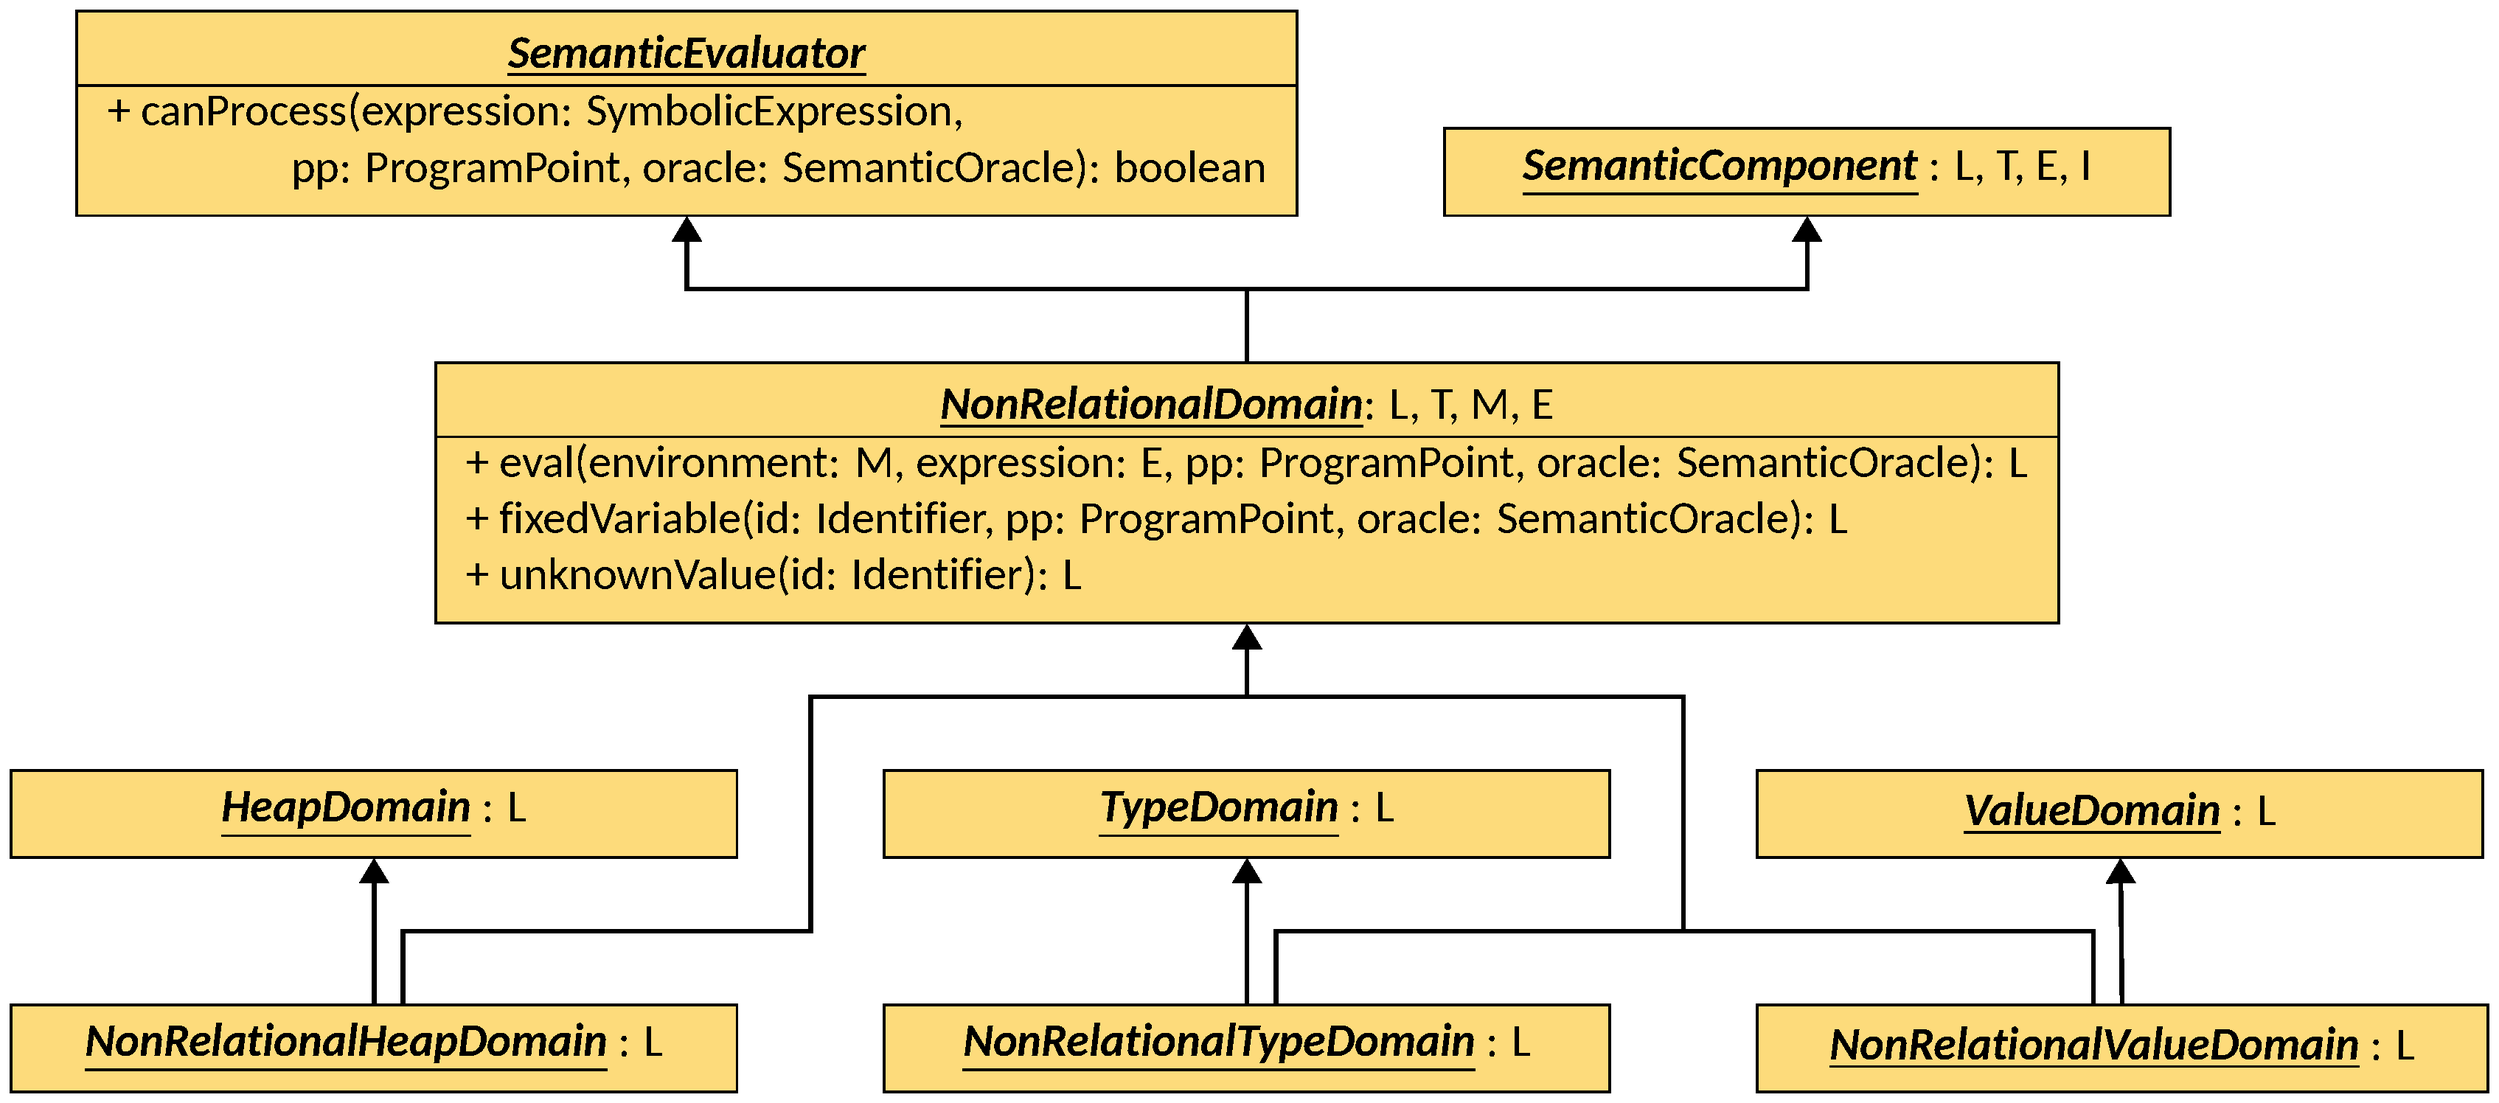
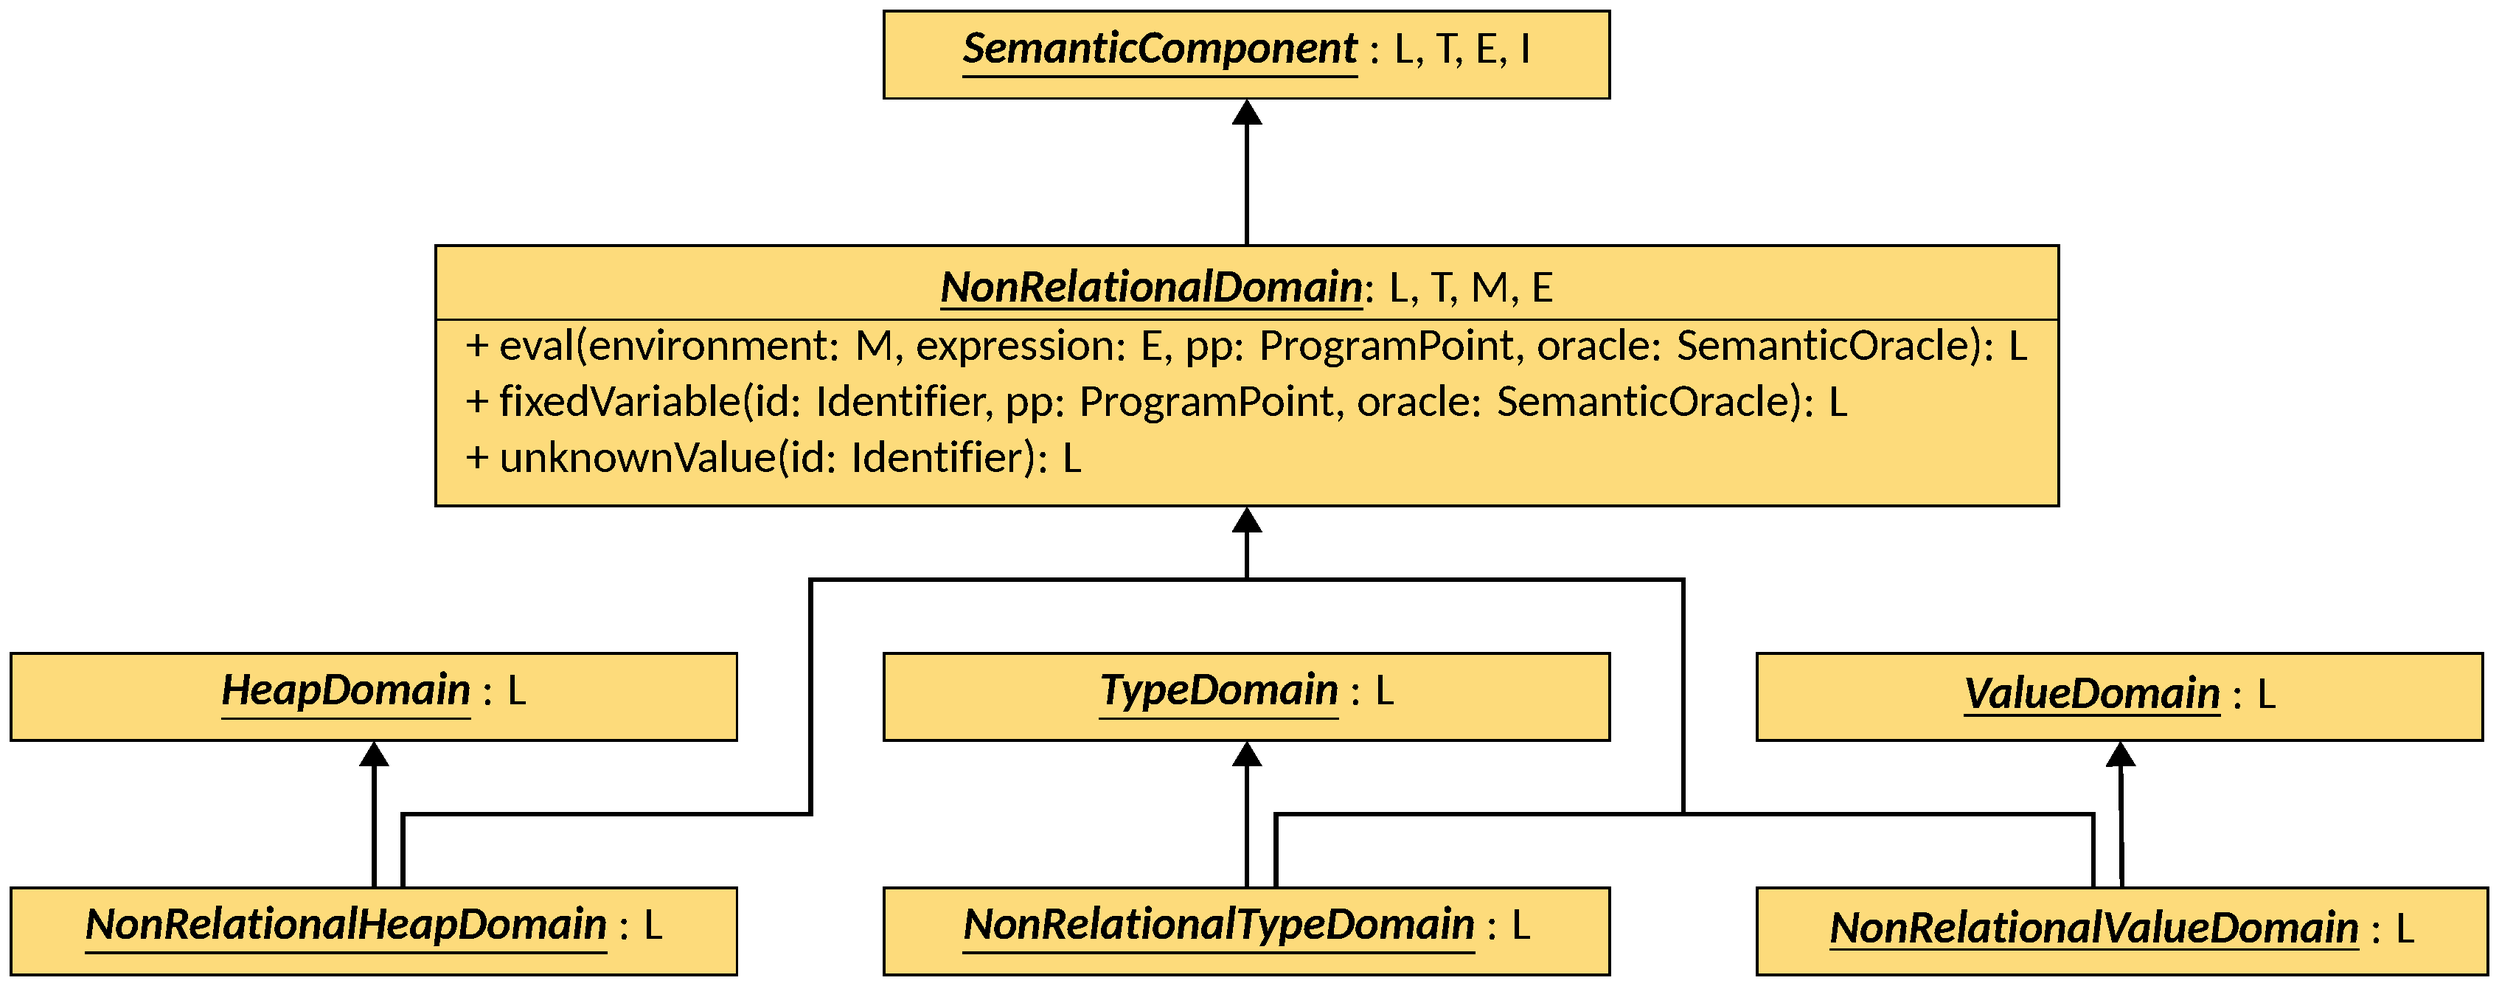
update for new release

diff --git a/schemes/sad-domain.tex b/schemes/sad-domain.tex
@@ -19,18 +19,20 @@
 			$\qquad\qquad$pp: ProgramPoint, oracle: SemanticOracle): Type      \\
 		\end{tabular}};
 
-	\node[interfacenode, inlinenode, left=of td.north west, anchor=north east] (vd) {\begin{tabular}{l}
-			\multicolumn{1}{c}{\interfacename{ValueDmain} : L} \\
-		\end{tabular}};
-
-	\node[interfacenode] (dwr) [above=1.5cm of $(td)!0.5!(vd)$] {\begin{tabular}{l}
-			\multicolumn{1}{c}{\interfacename{DomainWithReplacement} : L, E} \\
+	\node[interfacenode, left=of td.north west, anchor=north east] (vd) {\begin{tabular}{l}
+			\multicolumn{1}{c}{\interfacename{ValueDomain} : L}                            \\
 			\hline
-			+ !applyReplacement(state: L, r: HeapReplacement,                \\
-			$\qquad\qquad$pp: ProgramPoint, oracle: SemanticOracle): L       \\
+			+ !constraints(ValueDomain<?> requesting, L state, ValueExpression e,          \\
+			$\qquad\qquad$ProgramPoint pp, SemanticOracle oracle): Set<BinaryExpression>   \\
+			* makeConstraint(Type constantType, Object constant, BinaryOperator operator,  \\
+			$\qquad\qquad$SymbolicExpression expr, ProgramPoint pp): Set<BinaryExpression> \\
+			* makeEqConstraint(Type constantType, Object constant,                         \\
+			$\qquad\qquad$SymbolicExpression expr, ProgramPoint pp): Set<BinaryExpression> \\
+			* makeRangeConstraints(Type constantType, Object low, Object high,             \\
+			$\qquad\qquad$SymbolicExpression expr, ProgramPoint pp): Set<BinaryExpression> \\
 		\end{tabular}};
 
-	\node[interfacenode, left=2cm of dwr.north west, anchor=north east] (hd) {\begin{tabular}{l}
+	\node[interfacenode, left=of vd.north west, anchor=north east] (hd) {\begin{tabular}{l}
 			\multicolumn{1}{c}{\interfacename{HeapDomain} : L}                             \\
 			\hline
 			+ rewrite(state: L, expression: SymbolicExpression,                            \\
@@ -47,7 +49,7 @@
 			$\qquad\qquad$pp: ProgramPoint, oracle: SemanticOracle): Satisfiability        \\
 		\end{tabular}};
 
-	\node[interfacenode] (comp) [above=of $(hd.north)!0.5!(dwr.north)$] {\begin{tabular}{l}
+	\node[interfacenode] (comp) [above=of vd] {\begin{tabular}{l}
 			\multicolumn{1}{c}{\interfacename{SemanticComponent} : L, T, E, I}                                  \\
 			\hline
 			+ assign(state: L, id: I, expression: E, pp: ProgramPoint, oracle: SemanticOracle): T               \\
@@ -58,10 +60,9 @@
 			+ onCallReturn(entryState: L, callres: L, call: ProgramPoint): L                                    \\
 		\end{tabular}};
 
-	\draw[->, thick] (vd) |- ($(dwr.south)+(0,-0.5)$) to (dwr);
-	\draw[->, thick] (td) |- ($(dwr.south)+(0,-0.5)$) to (dwr);
+	\draw[->, thick] (vd) to (comp);
+	\draw[->, thick] (td) |- ($(comp.south)+(0,-0.5)$) to (comp);
 	\draw[->, thick] (hd) |- ($(comp.south)+(0,-0.5)$) to (comp);
-	\draw[->, thick] (dwr) |- ($(comp.south)+(0,-0.5)$) to (comp);
 \end{tikzpicture}
 
 \end{document}

diff --git a/schemes/dataflow.tex b/schemes/dataflow.tex
@@ -11,8 +11,7 @@
 
 \begin{tikzpicture}[nodes={font={\small}, minimum width=5cm, minimum height=.6cm}]%
 	\node[interfacenode, inlinenode] (vd) {\interfacename{ValueDomain}: L};
-	\node[interfacenode, inlinenode] (se) [right=of vd] {\interfacename{SemanticEvaluator}};
-	\node[abstractclassnode] (dd) [below=of $(vd)!0.5!(se)$] {\begin{tabular}{l}
+	\node[abstractclassnode] (dd) [below=of vd] {\begin{tabular}{l}
 			\multicolumn{1}{c}{\interfacename{DataflowDomain}: L, E}                                        \\
 			\hline
 			+ gen(state: L, id: Identifier, expression: ValueExpression, arg: L, pp: ProgramPoint): Set<E>  \\
@@ -21,14 +20,14 @@
 			+ kill(state: L, expression: ValueExpression, arg: L, pp: ProgramPoint): Set<E>                 \\
 		\end{tabular}};
 
-	\node[interfacenode, inlinenode] (so) [right=of se] {\interfacename{StructuredObject}};
-	\node[interfacenode, inlinenode] (sO) [right=of so] {\interfacename{ScopedObject} : T};
-	\node[interfacenode] (de) [below=of $(so)!0.5!(sO)$] {\begin{tabular}{l}
+	\node[interfacenode, right=of dd.north east, anchor=north west] (de) {\begin{tabular}{l}
 			\multicolumn{1}{c}{\interfacename{DataflowElement}: E}         \\
 			\hline
 			+ getInvolvedIdentifiers(): Collection<Identifier>             \\
 			+ replaceIdentifier(source: Identifier, target: Identifier): E \\
 		\end{tabular}};
+	\node[interfacenode, inlinenode] (so) [above left=1cm and -2cm of de] {\interfacename{StructuredObject}};
+	\node[interfacenode, inlinenode] (sO) [above right=1cm and -2cm of de] {\interfacename{ScopedObject} : T};
 
 	\node[interfacenode, inlinenode] (vl) [below=of $(dd.south)!0.5!(de.south)$] {\interfacename{ValueLattice} : L};
 	\node[interfacenode] (ddl) [below=of vl] {\begin{tabular}{l}
@@ -42,8 +41,7 @@
 	\node[classnode, inlinenode] (ps) [below=of $(sl.south)!0.5!(ddl.south)$] {\classname{PossibleSet} : E};
 	\node[classnode, inlinenode] (ds) [below=of $(isl.south)!0.5!(ddl.south)$] {\classname{DefiniteSet} : E};
 
-	\draw[->, thick, dashed] (dd) |- ($(vd.south)+(0,-0.5)$) to (vd);
-	\draw[->, thick, dashed] (dd) |- ($(se.south)+(0,-0.5)$) to (se);
+	\draw[->, thick, dashed] (dd) to (vd);
 	\draw[->, thick] (de) |- ($(so.south)+(0,-0.5)$) to (so);
 	\draw[->, thick] (de) |- ($(sO.south)+(0,-0.5)$) to (sO);
 	\draw[->, thick] (ddl) to (vl);

diff --git a/schemes/non-relational.tex b/schemes/non-relational.tex
@@ -10,16 +10,9 @@
 \sffamily
 
 \begin{tikzpicture}[nodes={font={\small}, minimum width=5cm, minimum height=.6cm}]%
-	\node[interfacenode] (eval) {\begin{tabular}{l}
-			\multicolumn{1}{c}{\interfacename{SemanticEvaluator}}            \\
-			\hline
-			+ canProcess(expression: SymbolicExpression,                     \\
-			$\qquad\qquad$pp: ProgramPoint, oracle: SemanticOracle): boolean \\
-		\end{tabular}};
+	\node[interfacenode, inlinenode] (comp) {\interfacename{SemanticComponent} : L, T, E, I};
 
-	\node[interfacenode, inlinenode, right=of eval.south east, anchor=south west] (comp) {\interfacename{SemanticComponent} : L, T, E, I};
-
-	\node[interfacenode] (nrd) [below=of $(eval.south)!0.5!(comp.south)$] {\begin{tabular}{l}
+	\node[interfacenode] (nrd) [below=of comp] {\begin{tabular}{l}
 			\multicolumn{1}{c}{\interfacename{NonRelationalDomain}: L, T, M, E}                \\
 			\hline
 			+ eval(environment: M, expression: E, pp: ProgramPoint, oracle: SemanticOracle): L \\
@@ -34,8 +27,7 @@
 	\node[interfacenode, inlinenode] (hd) [left=of td] {\interfacename{HeapDomain} : L};
 	\node[interfacenode, inlinenode] (nrhd) [left=of nrtd] {\interfacename{NonRelationalHeapDomain} : L};
 
-	\draw[->, thick] (nrd) |- ($(comp.south)+(0,-0.5)$) to (comp);
-	\draw[->, thick] (nrd) |- ($(eval.south)+(0,-0.5)$) to (eval);
+	\draw[->, thick] (nrd)  to (comp);
 	\draw[->, thick] (nrvd) to (vd);
 	\draw[->, thick] (nrtd) to (td);
 	\draw[->, thick] (nrhd) to (hd);

diff --git a/schemes/domain-lattices.tex b/schemes/domain-lattices.tex
@@ -37,6 +37,7 @@
 			+ <T> getInfo(key: String, type: Class<T>): T                        \\
 			+ storeInfo(key: String, info: Lattice<?>): ProgramState<A>          \\
 			+ weakStoreInfo(key: String, info: Lattice<?>): ProgramState<A>      \\
+			+ clearInfo(): ProgramState<A>                                       \\
 			+ withTopMemory(): ProgramState<A>                                   \\
 			+ withTopValues(): ProgramState<A>                                   \\
 			+ withTopTypes(): ProgramState<A>                                    \\
@@ -64,6 +65,7 @@
 			+ <T> getExecutionInfo(key: String, type: Class<T>): T                        \\
 			+ storeExecutionInfo(key: String, info: Lattice<?>): AnalysisState<A>         \\
 			+ weakStoreExecutionInfo(key: String, info: Lattice<?>): AnalysisState<A>     \\
+			+ clearExecutionInfo(): AnalysisState<A>                                      \\
 			+ getExecution(): ProgramState<A>                                             \\
 			+ getHalt(): ProgramState<A>                                                  \\
 			+ getErrors(): GenericMapLattice<Error, ProgramState<A>{}>                    \\

diff --git a/schemes/abstract-domain.tex b/schemes/abstract-domain.tex
@@ -22,6 +22,8 @@
 			\multicolumn{1}{c}{\interfacename{SemanticOracle}}                                                     \\
 			\hline
 			+ getEventQueue(): EventQueue                                                                          \\
+			+ hasWholeValueAnalysis(): boolean                                                                     \\
+			+ constraints(ValueDomain<?> requesting, ValueExpression e, ProgramPoint pp): Set<BinaryExpression>    \\
 			+ getRuntimeTypesOf(e: SymbolicExpression, pp: ProgramPoint): Set<Type>                                \\
 			+ getDynamicTypeOf(e: SymbolicExpression, pp: ProgramPoint): Type                                      \\
 			+ rewrite(expression: SymbolicExpression, pp: ProgramPoint): ExpressionSet                             \\

diff --git a/documentation/simple-abstract-domain.md b/documentation/simple-abstract-domain.md
@@ -183,24 +183,20 @@ exploiting the methods it exposes to query information from other components.
 `HeapDomain`, that has a type parameter `L` that must extend `HeapLattice<L>`,
 inherits directly from `SemanticComponent<L, Pair<L, List<HeapReplacement>>, SymbolicExpression, Identifier>`,
 meaning that its transformers accept instances of `L` as input, can process any
-[`SymbolicExpression`]({{ site.baseurl }}/documentation/symbolic-expressions.html#the-symbolic-expression-class) and can assign values to any [`Identifier`]({{ site.baseurl }}/documentation/symbolic-expressions.html#identifiers), but return a
-pair of a new state `L` and a substitution `List<HeapReplacement>`. The common
-logic for domains that must react to substitutions is implemented in the
-interface `DomainWithReplacement`, parametric on the concrete type `L` of the
-`DomainLattice<L, L>` that the domain manages and on the type `E` of
-[`SymbolicExpression`]({{ site.baseurl }}/documentation/symbolic-expressions.html#the-symbolic-expression-class)s it can process. This interface inherits from
-`SemanticComponent<L, L, E, Identifier>`, meaning that its transformers accept
-and produce instances of `L`, can process `E` expressions, and can assign values
-to any [`Identifier`]({{ site.baseurl }}/documentation/symbolic-expressions.html#identifiers). `DomainWithReplacement` provides an
-implementation-independent logic for applying a list of `HeapReplacement`s
-through method `applyReplacements`. Finally,`ValueDomain`, having a type
+[`SymbolicExpression`]({{ site.baseurl }}/documentation/symbolic-expressions.html#the-symbolic-expression-class)
+and can assign values to any
+[`Identifier`]({{ site.baseurl }}/documentation/symbolic-expressions.html#identifiers),
+but return a
+pair of a new state `L` and a substitution `List<HeapReplacement>`.
+`ValueDomain`, having a type
 parameter `L` that must extend `ValueLattice<L>`, and `TypeDomain`, having a type
 parameter `L` that must extend `TypeLattice<L>`, both inherit from
-`LatticeWithReplacement<L, ValueExpression>`.
-
-{% include warn.html content="The `DomainWithReplacement` interface currently
-duplicates code from the `LatticeWithReplacement` interface. The former is
-marked for removal in release 1.0." %}
+`SemanticComponent`, fixing its first two type parameters to `L`,
+meaning that its transformers accept and produce instances of `L`,
+its `I` parameter to
+[`Identifier`]({{ site.baseurl }}/documentation/symbolic-expressions.html#identifiers),
+and the type parameter `E` to
+[`ValueExpression`]({{ site.baseurl }}/documentation/symbolic-expressions.html#value-expressions).
 
 The methods of a [`SemanticOracle`]({{ site.baseurl }}/documentation/semantic-domains.html#the-analysis-class) are replicated and split among the three
 components, each with an extra parameter for the `state` instance to use for the
@@ -238,6 +234,40 @@ state, and can query information from each other as needed.
 
 For a list of heap, value, and type domains already implemented in LiSA, see the
 [Configuration]({{ site.baseurl }}/configuration/#setting-the-abstract-domain) page.
+
+{% include tip.html content="The `HeapDomain` interface is extended by `BaseHeapDomain`,
+that provides default visiting behavior for the `rewrite` overloads. It is highly
+advised to inherit from that interface whenever possible." %}
+
+### Whole-Value Analyses
+
+The `SemanticOracle` interface has two special methods: `hasWholeValueAnalysis`
+and `constraints`. These are used to implement the constraint-based information
+exchange framework described in:
+
+> <ins>Luca Negrini</ins>, 2026.
+> **Whole-value analysis by abstract interpretation**.
+> Frontiers in Computer Science, Volume 7, 1655377.<br/>
+> <small>[<i class="fas fa-link"></i> DOI](https://doi.org/10.3389/fcomp.2025.1655377)</small>
+
+The framework allows domains to query information from each other by generating
+constraints (i.e., binary expressions) that constrain the possible values of
+a target expression in a domain-independent way. For instance, a numerical domain
+might want to evaluate the expression `1 + len(y)`, where `y` is string.
+As the domain does not know how to evaluate `len(y)`, when evaluating the
+expression alone it has no other choice than returning the top element.
+With this framework, the domain can (i) ask the oracle if the whole-value
+analysis is enabled, and (ii) if so, ask the oracle for the constraints of
+`len(y)`. The returned constraints will be, e.g., `{ 2 <= len(y), 10 >= len(y)
+}`: these information is enough for the numerical domain to know that the
+value of the expression lies between 3 and 11 instead of top. To enable
+the whole-value analysis, one must use the `WholeValueAnalysis` class as
+`ValueDomain`, passing at construction all the domains that should be part of it.
+
+The methods defined by the `ValueDomain` interface follow this framework:
+the `constraints` method is used to retrieve the constraints of a target expression
+(with the default implementation returning an empty set), while the remaining
+methods serve as utilities to generate sets of constraints.
 
 ## Non-Relational Analyses
 
@@ -294,15 +324,10 @@ work with (that must extend `FunctionalLattice<M, Identifier, L>` and `DomainLat
 and on the type `E` of [`SymbolicExpression`]({{ site.baseurl }}/documentation/symbolic-expressions.html#the-symbolic-expression-class)s it can process. Note that the binding
 allow the type of values used inside the mapping `M` to differ from the
 return type of each tansformer: this is essential for enabling both heap and
-value analyses. `NonRelationalDomain` extends two interfaces:
-
-- [`SemanticEvaluator`]({{ site.baseurl }}/documentation/semantic-domains.html#the-semantic-domain-interface), that defines a `canProcess` method to check whether the
-  domain can process a given expression, relying on its type and its runtime
-  types;
-- `SemanticComponent<M, T, E, Identifier`, meaning that the domain can be used
-  for all three components (heap, type, and value) by instantiating `M` with the
-  corresponding environment type (i.e., `HeapEnvironment`, `TypeEnvironment`, or
-  `ValueEnvironment`).
+value analyses. `NonRelationalDomain` extends the `SemanticComponent<M, T, E, Identifier`,
+meaning that the domain can be used for all three components (heap, type, and value)
+by instantiating `M` with the corresponding environment type (i.e.,
+`HeapEnvironment`, `TypeEnvironment`, or `ValueEnvironment`).
 
 Three methods are defined by the interface:
 
@@ -447,10 +472,9 @@ The `DataflowDomain` interface defines the concrete operations that a dataflow
 analysis must support to be used within LiSA. It is parametric to the type `L`
 of `DataflowDomainLattice<L, E>` to be used (either `PossibleSet` or
 `DefiniteSet`), and to the type `E` of `DataflowElement<E>` that the sets
-computed by the domain contain. `DataflowDomain` is both a `ValueDomain<L>` and
-a [`SemanticEvaluator`]({{ site.baseurl }}/documentation/semantic-domains.html#the-semantic-domain-interface), meaning that it can be used in the Simple Abstract Domain
-framework as value component producing instances of `L`, and that it offers a
-`canProcess` test to filter out unsupported expressions. Transformers from
+computed by the domain contain. `DataflowDomain` is a `ValueDomain<L>`,
+meaning that it can be used in the Simple Abstract Domain
+framework as value component producing instances of `L`. Transformers from
 `ValueDomain` are implemented using the dataflow formula, that in turns use the
 implementation-specific `gen` and `kill` functions (each with two overloads, one
 for assignments and one for non-assigning expressions). Similarly to

diff --git a/documentation/lattices.md b/documentation/lattices.md
@@ -290,8 +290,11 @@ that represent the result of the last evaluation performed by the analysis.
 The `info` field can be used to track program-specific information by
 [Frontends]({{ site.baseurl }}/documentation/frontends.html), such as the set
 of already initialized classes in Java programs, or the set of aliases
-introduced by Python's `import ... as ...` statements. Instead,
-`computedExpressions` typically holds the last expression(s) evaluated by
+introduced by Python's `import ... as ...` statements. Note that this field does
+not follow the `top()` and `bottom()` calls over the containing state:
+`FixpointInfo` instances are supposed to contain facts about the execution,
+and those do not change depending on the state of the program.
+Instead, `computedExpressions` typically holds the last expression(s) evaluated by
 the analysis that symbolically represent the contents of the operand stack.
 
 `ProgramState` implements lattice operations by propagating the calls to

diff --git a/documentation/semantic-domains.md b/documentation/semantic-domains.md
@@ -137,6 +137,10 @@ that hold in that specific state:
 - it can be used to query information about the memory structure of the program
   (e.g., aliasing or reachability).
 
+Finally, the `hasWholeValueAnalysis` and the `constraints` methods can be used,
+in case of the adoption of the `SimpleAbstractDomain`
+framework, to obtain information on the value of an expression. More on this is
+available in the [Simple Abstract Domain]({{ site.baseurl }}/documentation/simple-abstract-domain.html#whole-value-analyses) page.
 Note that the oracle must be **sound**, but it is not required to be as precise
 as possible: for instance, the oracle might return all possible types when asked
 for the runtime types of an expression. Such information will be used
